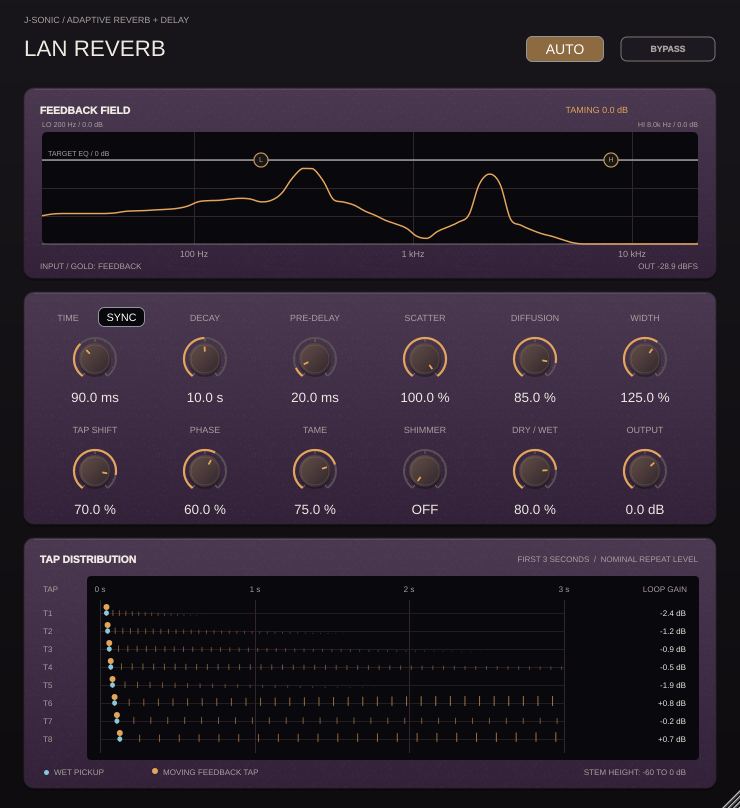
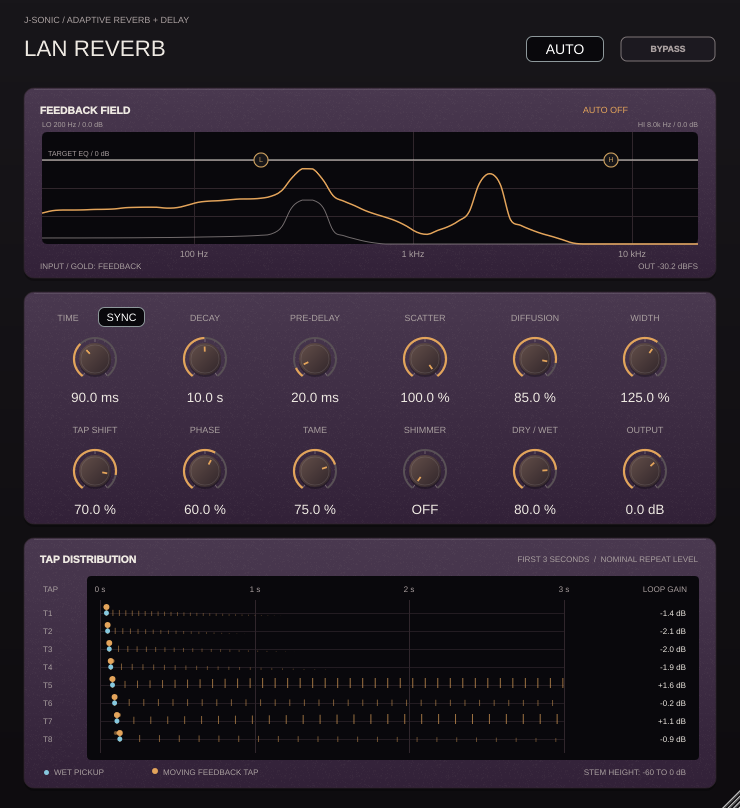
Keep Lan Reverb spectrum live with Auto off

diff --git a/projects/LanReverb/Source/ReverbEngine.cpp b/projects/LanReverb/Source/ReverbEngine.cpp
@@ -21,7 +21,7 @@ void ResonanceAnalyser::reset (bool preserveSource)
     ages = {}; held = {}; decayCount = decayPosition = 0; decayTime = 0;
     if (!preserveSource) { sourceHolds = {}; sourceMemory = {}; previousSample = 0; }
 }
-Analysis ResonanceAnalyser::analyse (const Frame& frame)
+Analysis ResonanceAnalyser::spectrum (const Frame& frame)
 {
     input.fill(0); feedback.fill(0);
     for (int channel = 0; channel < 4; ++channel)
@@ -48,6 +48,12 @@ Analysis ResonanceAnalyser::analyse (const Frame& frame)
         result.input[size_t(row)] = float(10*std::log10(std::max(1e-12,inputPeak)));
         result.feedback[size_t(row)] = float(10*std::log10(std::max(1e-12,feedbackPeak)));
     }
+    return result;
+}
+Analysis ResonanceAnalyser::analyse (const Frame& frame)
+{
+    auto result = spectrum(frame);
+    const auto binHz = frame.rate/analysisSize;
     struct Candidate { Band band; double priority = 0; };
     std::array<Candidate,maxBands> selected {};
     const auto previousAges = ages; ages.fill(0);
@@ -208,7 +214,7 @@ void AnalysisService::prepare (double rate, bool worker)
 {
     release(); ring = {}; job = {}; ring.rate = job.rate = rate;
     position = filled = sinceJob = 0; sampleCounter = 0; interval = std::max(1,juce::roundToInt(rate*.1));
-    enabled = false; offline = !worker; analysedGeneration = 0; analyser.reset();
+    enabled = correctionEnabled = false; offline = !worker; analysedGeneration = 0; analyser.reset();
     // Keep publication versions monotonic across host re-prepares so an open
     // editor cannot mistake a new frame for the previous stream's revision.
     generation.fetch_add(1); submitted.store(0); version.fetch_add(1);
@@ -217,11 +223,13 @@ void AnalysisService::prepare (double rate, bool worker)
     version.fetch_add(1);
     if (worker) startThread(juce::Thread::Priority::low);
 }
-void AnalysisService::setActive (bool active, float sourceHoldSeconds)
+void AnalysisService::setActive (bool correction, bool monitor, float sourceHoldSeconds)
 {
     ring.sourceHoldSeconds = sourceHoldSeconds;
-    if (enabled == active) return;
-    enabled = active; generation.fetch_add(1); filled = sinceJob = position = 0;
+    const auto capture = correction || monitor;
+    if (enabled == capture && correctionEnabled == correction) return;
+    enabled = capture; correctionEnabled = correction;
+    generation.fetch_add(1); filled = sinceJob = position = 0;
 }
 void AnalysisService::push (float left, float right, float wetLeft, float wetRight) noexcept
 {
@@ -235,7 +243,8 @@ void AnalysisService::push (float left, float right, float wetLeft, float wetRig
     if (!jobState.compare_exchange_strong(expected,1,std::memory_order_acquire)) return;
     for (size_t ch = 0; ch < 4; ++ch)
         for (int i = 0; i < analysisSize; ++i) job.audio[ch][size_t(i)] = ring.audio[ch][size_t((position+i)%analysisSize)];
-    job.generation = generation.load(); job.rate = ring.rate; job.sourceHoldSeconds = ring.sourceHoldSeconds; job.sampleEnd = sampleCounter;
+    job.generation = generation.load(); job.rate = ring.rate; job.sourceHoldSeconds = ring.sourceHoldSeconds;
+    job.sampleEnd = sampleCounter; job.spectrumOnly = !correctionEnabled;
     sinceJob = 0; submitted.fetch_add(1); jobState.store(2,std::memory_order_release);
 }
 void AnalysisService::compute()
@@ -243,7 +252,8 @@ void AnalysisService::compute()
     int expected = 2;
     if (!jobState.compare_exchange_strong(expected,3,std::memory_order_acquire)) return;
     if (analysedGeneration != job.generation) { analyser.reset(true); analysedGeneration = job.generation; }
-    publish(analyser.analyse(job)); jobState.store(0,std::memory_order_release);
+    publish(job.spectrumOnly ? analyser.spectrum(job) : analyser.analyse(job));
+    jobState.store(0,std::memory_order_release);
 }
 void AnalysisService::finishBlock() { if (offline) compute(); }
 void AnalysisService::run()
@@ -499,7 +509,8 @@ TapDisplay ReverbEngine::readTapDisplay() const noexcept
 void ReverbEngine::update (const Settings& s)
 {
     const auto active = s.automatic && (s.tame > .001f || s.phase*s.scatter > .001f);
-    analysis.setActive(active,std::clamp(s.decaySeconds,.3f,40.f)+1.25f);
+    analysis.setActive(active,spectrumMonitor.load(std::memory_order_relaxed),
+                       std::clamp(s.decaySeconds,.3f,40.f)+1.25f);
     Analysis next;
     if (active && analysis.read(next)) latest = next;
     if (!active) latest = {};

diff --git a/projects/LanReverb/Tests/ProcessorTests.cpp b/projects/LanReverb/Tests/ProcessorTests.cpp
@@ -477,18 +477,28 @@ void inputProtectionTests (const juce::File& directory)
         }
         service.finishBlock();
     };
-    service.setActive(true,3); advance(4800,true,false);
-    service.setActive(false,3); advance(12000,false,false);
-    service.setActive(true,3);
+    service.setActive(true,false,3); advance(4800,true,false);
+    service.setActive(false,false,3); advance(12000,false,false);
+    service.setActive(true,false,3);
     for (int i = 0; i < 5; ++i) advance(4800,false,true);
     lan::Analysis remembered; check(service.read(remembered),"resumed worker publishes a valid protected frame");
     for (int i = 0; i < remembered.count; ++i)
         check(std::abs(remembered.bands[size_t(i)].frequency-996.09375) > 120,"observed source-note protection survives an Auto Off/On cycle");
-    service.setActive(false,3); advance(4*48000,false,false); service.setActive(true,3);
+    service.setActive(false,false,3); advance(4*48000,false,false); service.setActive(true,false,3);
     for (int i = 0; i < 5; ++i) advance(4800,false,true);
     bool expired = false; lan::Analysis after; check(service.read(after),"worker resumes after a long inactive interval");
     for (int i = 0; i < after.count; ++i) expired |= std::abs(after.bands[size_t(i)].frequency-996.09375) < 120;
     check(expired,"source protection expires by stream time even while Auto is off");
+    const auto jobsBeforeMonitor=service.jobs();
+    service.setActive(false,true,3); advance(4800,true,true);
+    lan::Analysis monitored;
+    check(service.read(monitored) && monitored.count==0
+          && *std::max_element(monitored.input.begin(),monitored.input.end())>-70.f
+          && *std::max_element(monitored.feedback.begin(),monitored.feedback.end())>-70.f,
+          "spectrum-only monitoring publishes input and feedback with resonance detection off");
+    check(service.jobs()>jobsBeforeMonitor,"spectrum monitoring runs only while requested");
+    service.setActive(false,false,3); advance(4800,true,true);
+    check(service.jobs()==jobsBeforeMonitor+1,"closing the monitor stops spectrum FFT jobs when Auto is off");
 }
 void relativeDecayTests (const juce::File& directory)
 {
@@ -1210,6 +1220,22 @@ void editorTests (const juce::File& destination)
     }
     for (int tick = 0; tick < 3; ++tick) { juce::Thread::sleep(10); juce::Timer::callPendingTimersSynchronously(); }
     lan::Analysis live; check(p.readAnalysis(live) && live.revision > 0,"real background worker publishes feedback data for the native editor");
+    set(p,"automatic",0);
+    for (int at=0;at<9600;at+=128)
+    {
+        juce::AudioBuffer<float> audio(2,128);
+        for (int i=0;i<128;++i)
+        {
+            const auto tone=float(.2*std::sin(2*pi*330*(at+i)/48000));
+            audio.setSample(0,i,tone); audio.setSample(1,i,tone);
+        }
+        p.processBlock(audio,midi);
+    }
+    pump();
+    lan::Analysis monitorFrame;
+    check(p.readAnalysis(monitorFrame) && monitorFrame.count==0
+          && *std::max_element(monitorFrame.input.begin(),monitorFrame.input.end())>-70.f,
+          "native spectrum continues updating with Auto off");
     set(p,"tap",70);
     juce::AudioBuffer<float> movingTaps(2,128); movingTaps.clear(); p.processBlock(movingTaps,midi);
     juce::Timer::callPendingTimersSynchronously();

diff --git a/projects/LanReverb/Source/PluginEditor.cpp b/projects/LanReverb/Source/PluginEditor.cpp
@@ -73,6 +73,7 @@ LanReverbEditor::LanReverbEditor (LanReverbProcessor& p) : AudioProcessorEditor(
     sliders[9].textFromValueFunction = [] (double value) { return value < .05 ? juce::String("OFF") : juce::String(value,1)+" %"; };
     sliders[9].setTextValueSuffix("");
     updateTimeMode();
+    processor.setSpectrumMonitor(true);
     editorScaling::enable(*this,designWidth,designHeight); gpu.attach(*this); startTimerHz(20);
 }
 void LanReverbEditor::updateTimeMode()
@@ -138,7 +139,6 @@ void LanReverbEditor::timerCallback()
     if (processor.readAnalysis(next)) analysis = next;
     // A worker publication can briefly make a nonblocking read fail. Keep
     // the last valid frame instead of flashing an empty plot on that tick.
-    if (processor.parameters.getRawParameterValue("automatic")->load()<.5f) analysis = {};
     spectrumDisplay.update(analysis,elapsed);
     tapDisplay=processor.readTapDisplay();
     reduction = processor.reductionDb(); outputPeak = processor.peakLevel();
@@ -172,9 +172,9 @@ void LanReverbEditor::paint (juce::Graphics& g)
         g.setColour(secondary); g.drawText(hz < 1000 ? "100 Hz" : hz < 10000 ? "1 kHz" : "10 kHz",int(x)-24,246,48,16,juce::Justification::centred);
     }
     for (int line = 1; line < 4; ++line) { g.setColour(grid); g.drawHorizontalLine(int(plot.getY()+line*plot.getHeight()/4),plot.getX(),plot.getRight()); }
-    if (active && analysis.revision > 0 && spectrumDisplay.hasFrame())
+    if (analysis.revision > 0 && spectrumDisplay.hasFrame())
     {
-        for (int band = 0; band < analysis.count; ++band)
+        for (int band = 0; active && band < analysis.count; ++band)
         {
             const auto& b = analysis.bands[size_t(band)];
             const auto x = plot.getX()+plot.getWidth()*std::log(std::max(lan::shelfMinHz,b.frequency)/lan::shelfMinHz)/std::log(ceiling/lan::shelfMinHz);
@@ -203,7 +203,7 @@ void LanReverbEditor::paint (juce::Graphics& g)
             g.setColour(which == 0 ? secondary.withAlpha(.65f) : amber); g.strokePath(path,juce::PathStrokeType(which == 0 ? 1.f : 1.5f));
         }
     }
-    else { g.setColour(secondary); g.drawText(active ? "Listening to the feedback tail" : "Resonance analysis is off",plot,juce::Justification::centred); }
+    else { g.setColour(secondary); g.drawText("Listening to the feedback tail",plot,juce::Justification::centred); }
     // The target curve uses the same coefficients and gain budget as the
     // feedback banks; the live bank follows it through its 250 ms crossfade.
     juce::Path eq;

diff --git a/projects/LanReverb/Source/ReverbEngine.h b/projects/LanReverb/Source/ReverbEngine.h
@@ -54,6 +54,7 @@ struct Frame
     float sourceHoldSeconds = 12;
     uint32_t generation = 0;
     uint64_t sampleEnd = 0;
+    bool spectrumOnly = false;
 };
 // Input-aware prominence plus relative spectral decay detect sustained loop
 // coloration. Only attenuation is requested; this is not a feedback canceller.
@@ -61,6 +62,7 @@ class ResonanceAnalyser
 {
 public:
     Analysis analyse (const Frame&);
+    Analysis spectrum (const Frame&);
     void reset (bool preserveSource = false);
 private:
     juce::dsp::FFT fft { 12 };
@@ -84,7 +86,7 @@ public:
     ~AnalysisService() override;
     void prepare (double rate, bool worker);
     void release();
-    void setActive (bool, float sourceHoldSeconds = 12);
+    void setActive (bool correction, bool monitor, float sourceHoldSeconds = 12);
     void push (float left, float right, float wetLeft, float wetRight) noexcept;
     void finishBlock(); // synchronous only in explicit offline test rendering
     bool read (Analysis&) const noexcept;
@@ -101,7 +103,7 @@ private:
     static constexpr int valuesSize = 2*spectrumBins+3*maxBands+3;
     std::array<std::atomic<float>, valuesSize> values {};
     int position = 0, filled = 0, sinceJob = 0, interval = 4800;
-    bool enabled = false, offline = false;
+    bool enabled = false, correctionEnabled = false, offline = false;
     uint32_t analysedGeneration = 0;
     uint64_t sampleCounter = 0;
 };
@@ -129,12 +131,14 @@ public:
     void release() { analysis.release(); }
     void process (juce::AudioBuffer<float>&, const Settings&, bool hostBypass = false);
     bool readAnalysis (Analysis& a) const noexcept { return analysis.read (a); }
+    void setSpectrumMonitor (bool enabled) noexcept { spectrumMonitor.store(enabled,std::memory_order_relaxed); }
     float reductionDb() const noexcept { return displayedReduction.load(); }
     uint32_t analysisJobs() const noexcept { return analysis.jobs(); }
     float peakLevel() const noexcept { return displayedPeak.load(); }
     TapDisplay readTapDisplay() const noexcept;
 private:
     friend struct ReverbEngineTestAccess;
+    std::atomic<bool> spectrumMonitor { false };
     struct Filter
     {
         double b0 = 1, b1 = 0, b2 = 0, a1 = 0, a2 = 0, z1 = 0, z2 = 0;

diff --git a/projects/LanReverb/Source/PluginProcessor.h b/projects/LanReverb/Source/PluginProcessor.h
@@ -35,6 +35,7 @@ public:
     void setStateInformation (const void*, int) override;
     lan::Settings settings() const;
     bool readAnalysis (lan::Analysis& a) const { return engine.readAnalysis(a); }
+    void setSpectrumMonitor (bool enabled) noexcept { engine.setSpectrumMonitor(enabled); }
     lan::TapDisplay readTapDisplay() const noexcept { return engine.readTapDisplay(); }
     float reductionDb() const { return engine.reductionDb(); }
     float peakLevel() const { return engine.peakLevel(); }

diff --git a/projects/LanReverb/Source/PluginEditor.h b/projects/LanReverb/Source/PluginEditor.h
@@ -9,7 +9,7 @@ class LanReverbEditor final : public juce::AudioProcessorEditor, private juce::T
 {
 public:
     explicit LanReverbEditor (LanReverbProcessor&);
-    ~LanReverbEditor() override { stopTimer(); gpu.detach(); setLookAndFeel(nullptr); }
+    ~LanReverbEditor() override { stopTimer(); processor.setSpectrumMonitor(false); gpu.detach(); setLookAndFeel(nullptr); }
     void paint (juce::Graphics&) override;
     void resized() override;
 private:

diff --git a/projects/LanReverb/README.md b/projects/LanReverb/README.md
@@ -33,6 +33,10 @@ and version. The plot compares input and feedback power spectra; gold markers
 indicate tracked resonance bands. The drawn spectra use light smoothing across
 neighboring log-frequency bins and between display frames to avoid jagged,
 flickering traces; the analyser and feedback processing use their original data.
+The input and feedback spectra keep updating while the editor is open, even
+with Auto, Tame, and Phase off. In that state the worker computes only the
+spectra; resonance detection and correction stay off. Closing the editor also
+stops spectrum capture when Auto is off.
 A pale target EQ curve combines the narrow tamer filters with the two uncompensated shelves. The reduction readout shows the deepest
 requested EQ cut, not a broadband gain-reduction meter.
 
